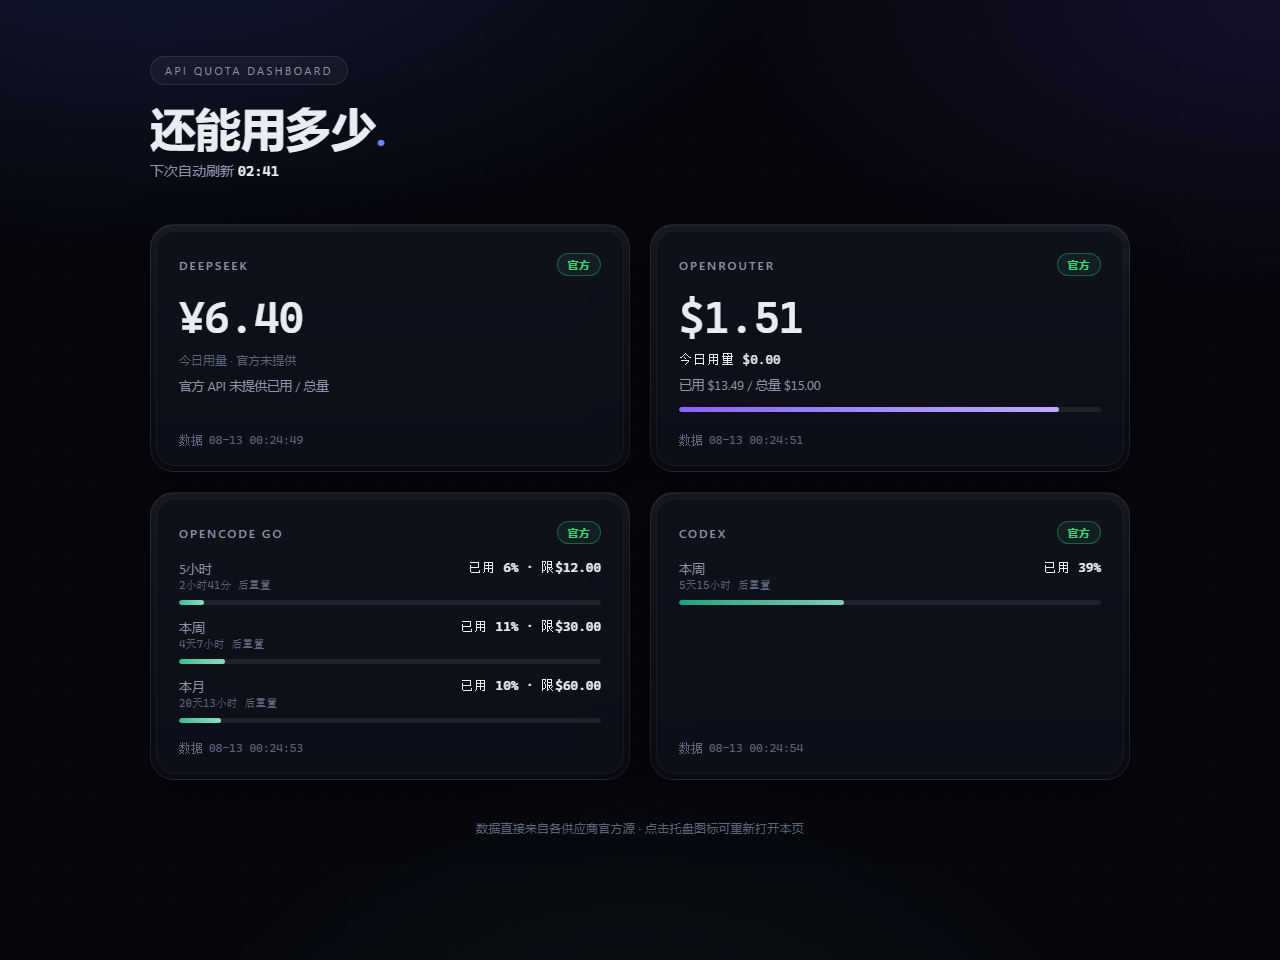
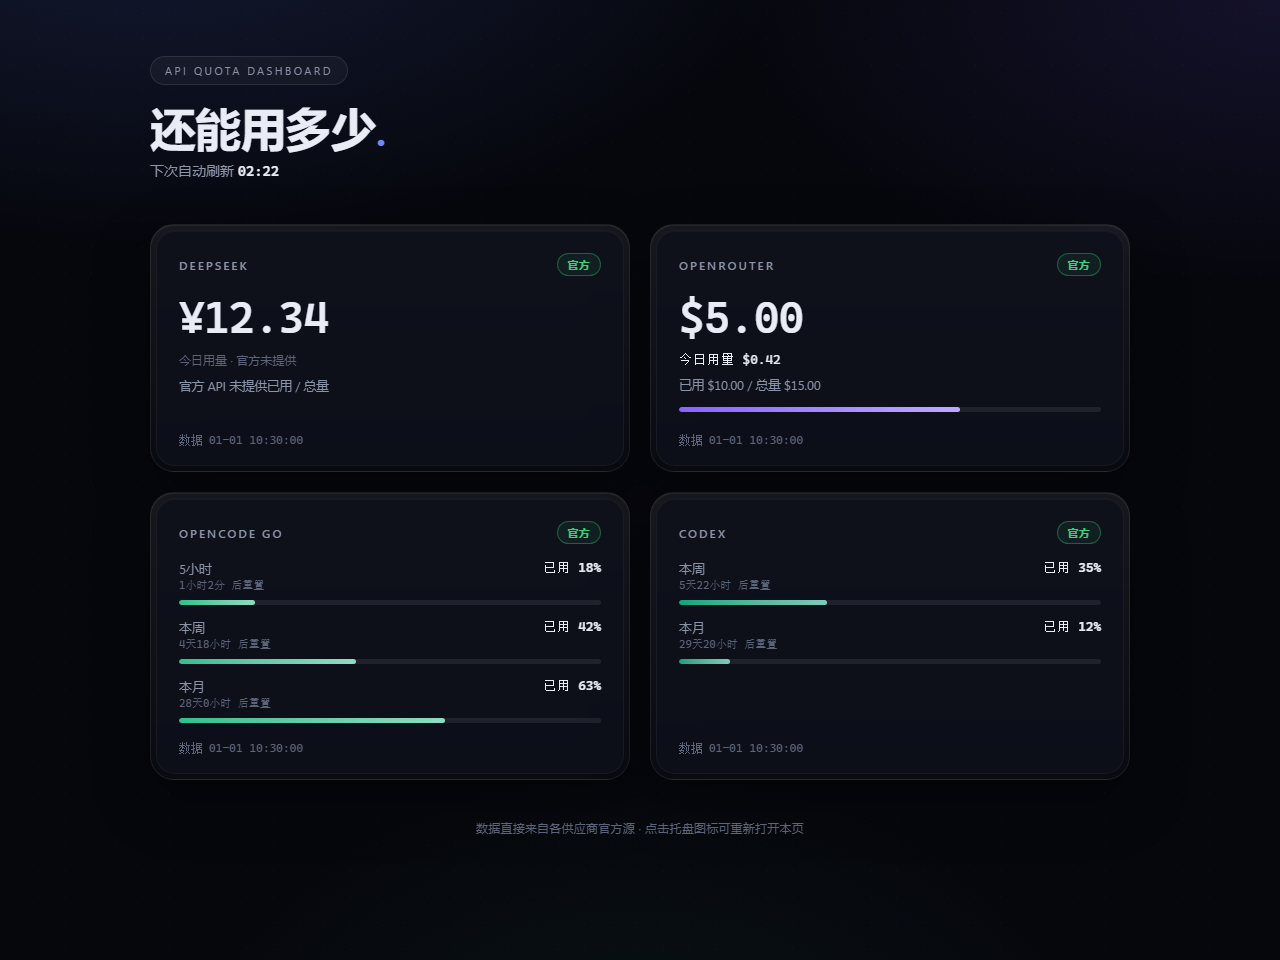
Privacy hardening for public release: sample-data screenshot, drop internal dev docs, genericize local ports

diff --git a/providers/opencode_go.py b/providers/opencode_go.py
@@ -4,7 +4,7 @@
 （https://app.opencode.ai/workspace/<workspaceId>/usage），需在 config.yaml 配 cookie + usage_url。
 
 数据真实性铁律：
-  - 禁止任何本地推算：不读 路由工具 日志 / 本地代理端口 / 本地代理端口 / 任何本地代理端口数据。
+  - 禁止任何本地推算：不读任何本地代理/路由日志、不读任何本地代理端口数据。
   - 未配 cookie / 解析失败 / HTTP 非 200 / 页面结构变化 → 一律返回 source_status='不可用'。
   - 绝不硬编码已用金额（只硬编码官方限额常量，来自 opencode.ai 官方文档）。
 """

diff --git a/docs/数据源确认.md b/docs/数据源确认.md
@@ -11,7 +11,7 @@
 
 ## 1. DeepSeek 官网 API（余额）
 
-- key 来源：本地 路由工具 配置中 DeepSeek provider 使用的同一把 key。明文见 config.yaml，本文件不重复。
+- key 来源：DeepSeek 官网控制台创建的 key。明文见 config.yaml，本文件不重复。
 - endpoint：`GET https://api.deepseek.com/user/balance`
 - 认证：`Authorization: Bearer <key>`；**直连**，无需代理。
 - 实测返回（2026-08-04）：
@@ -23,7 +23,7 @@
 
 ## 2. OpenRouter（credits）
 
-- key 来源：路由工具 provider「OpenRouter」（deepseekv3.2 与 GLM5.0 两个 provider 用同一把 key）。明文见 config.yaml。
+- key 来源：OpenRouter 官网控制台创建的 key。明文见 config.yaml。
 - ⚠ 历史遗留的旧 key（`sk-or-v1-xxxx...`）已失效（返回 401 User not found），**不可用**，勿用。
 - endpoint：`GET https://openrouter.ai/api/v1/credits`（路径含 /v1）
 - 认证：`Authorization: Bearer <key>`；**必须走 Clash 代理 127.0.0.1:7897**。
@@ -36,7 +36,7 @@
 
 ## 3. OpenCode Go（订阅额度）— 最高风险
 
-- key 来源：路由工具 provider「OpenCode Go」（当前 is_current=1）。明文见 config.yaml。
+- key 来源：OpenCode Go 官网创建的 key。明文见 config.yaml。
 - key 有效性：已实测 `GET https://opencode.ai/zen/go/v1/models`（Bearer 该 key）返回 200 模型列表 → **key 有效**，但只对推理接口有效。
 - **官方用量查询 API：不存在**。证据：
   - 官方文档 https://opencode.ai/docs/go/ 明示 "You can track your current usage in the console."（用量只能在控制台网页看）。
@@ -116,7 +116,7 @@ class Quota:
 ## 7. 硬约束（全员遵守）
 
 1. **数据真实性铁律**：所有展示数据必须直接来自供应商官方源（官方 API 或官方登录态页面）；禁止用本地端口/路由/代理日志推算余量；官方无接口就如实显示"官方数据源不可用"。
-2. 只读集成 本地代理端口/本地代理端口 与 CC Switch，**禁止改动/重启/干扰**任何一项。
+2. 只读集成本机代理配置，**禁止改动/重启/干扰**任何本地基础设施。
 3. key 明文在 config.yaml（已 .gitignore）；界面不打印完整 key。
 4. 每步实测不攒批：模块写完立刻真跑验证。
 5. 代码简单优先、效果优先，不过度设计。

diff --git a/README.md b/README.md
@@ -122,7 +122,7 @@ providers/              # 各供应商数据源（quota.py 统一模型）
 dashboard_ui/           # 浏览器仪表盘（本地 HTTP + 前端页面）+ 托盘
 install_autostart.py    # 开机自启 register/unregister/status
 update_opencode.py      # 批量更新 OpenCode Go cookie/usage_url
-docs/                   # 调研 / 数据源确认 / 验收记录
+docs/                   # 调研 / 数据源确认 / screenshot.png
 LICENSE                 # MIT
 ```
 
